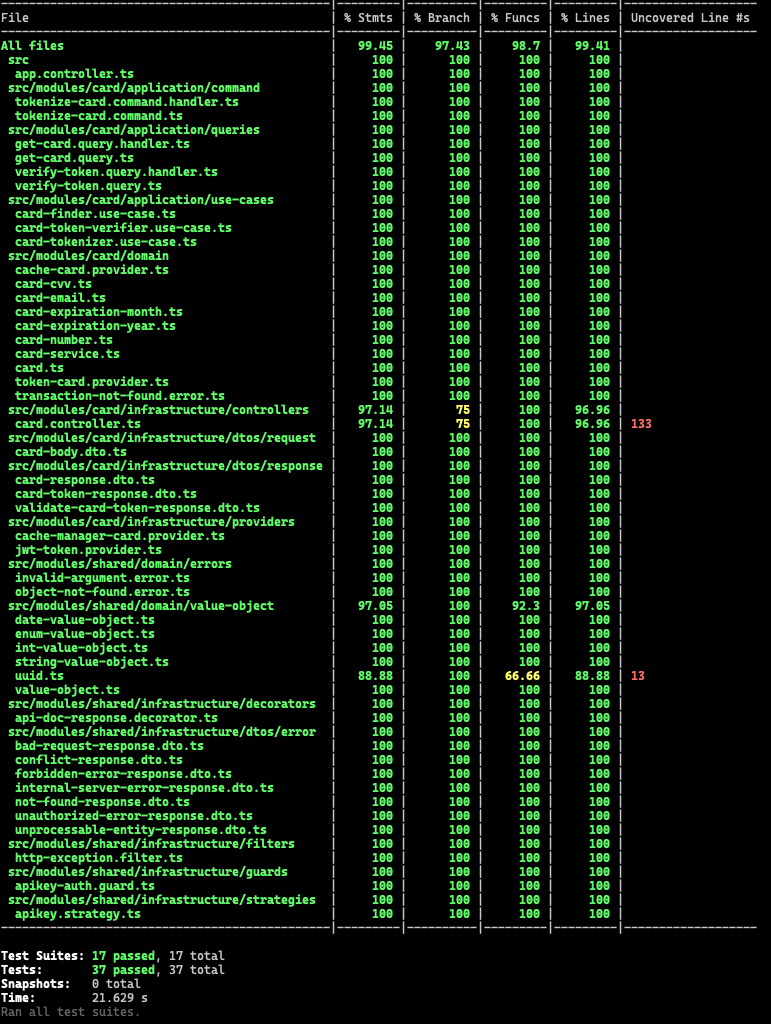
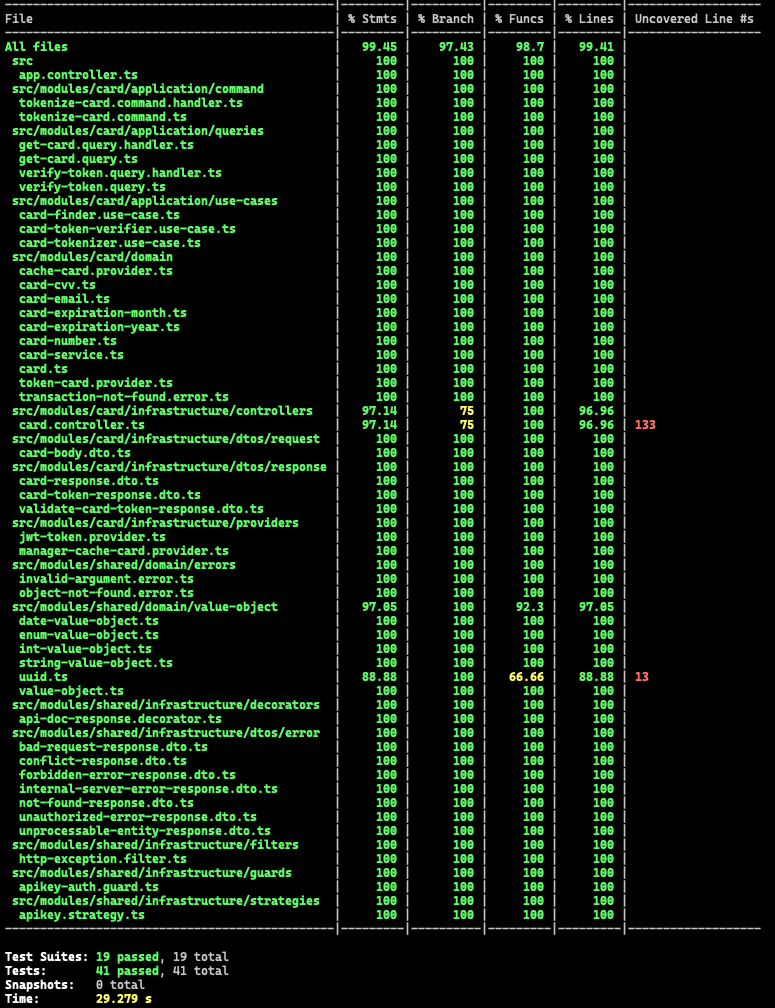
feat: add integration test and update readme

Changed region(s): [[0.0, 0.0, 0.9961, 1.0]]

diff --git a/tests/integration/card/manager-cache-card.provider.spec.ts b/tests/integration/card/manager-cache-card.provider.spec.ts
@@ -1,0 +1,48 @@
+import { CACHE_MANAGER } from '@nestjs/cache-manager';
+import { Test, TestingModule } from '@nestjs/testing';
+import { Cache } from 'cache-manager';
+import { ManagerCacheCardProvider as CacheCardProvider } from 'src/modules/card/infrastructure/providers/manager-cache-card.provider';
+import { CardMother } from 'tests/unit/card/domain/mothers/card.mother';
+import { StringMother } from 'tests/unit/shared/domain/value-object/mothers';
+
+import { CacheTestingModule } from '../base';
+
+describe('CacheManagerProvider test', () => {
+  let testingModule: TestingModule;
+  let cache: Cache;
+  let cacheCardProvider: CacheCardProvider;
+
+  beforeAll(async () => {
+    testingModule = await Test.createTestingModule({
+      imports: [...CacheTestingModule()],
+      providers: [CacheCardProvider],
+    }).compile();
+    cache = testingModule.get<Cache>(CACHE_MANAGER);
+    cacheCardProvider = testingModule.get(CacheCardProvider);
+  });
+
+  beforeEach(async () => {
+    await cache.reset();
+  });
+
+  afterAll(async () => {
+    await testingModule.close();
+  });
+
+  it('should return null because it does not exist', async () => {
+    const card = await cacheCardProvider.get(StringMother.random());
+    expect(card).toBeNull();
+  });
+
+  it('should return existing data', async () => {
+    const card = CardMother.random();
+    const token = StringMother.random();
+
+    let storedCard = await cacheCardProvider.get(token);
+    expect(storedCard).toBeNull();
+
+    await cacheCardProvider.set(token, card);
+    storedCard = await cacheCardProvider.get(token);
+    expect(storedCard).toEqual(card);
+  });
+});

diff --git a/tests/integration/card/jwt-token.provider.spec.ts b/tests/integration/card/jwt-token.provider.spec.ts
@@ -1,0 +1,34 @@
+import { Test, TestingModule } from '@nestjs/testing';
+import { JwtTokenProvider as TokenProvider } from 'src/modules/card/infrastructure/providers/jwt-token.provider';
+import { CardMother } from 'tests/unit/card/domain/mothers/card.mother';
+import { StringMother } from 'tests/unit/shared/domain/value-object/mothers';
+
+describe('JwtTokenProvider test', () => {
+  let testingModule: TestingModule;
+  let tokenProvider: TokenProvider;
+
+  beforeAll(async () => {
+    testingModule = await Test.createTestingModule({
+      providers: [TokenProvider],
+    }).compile();
+    tokenProvider = testingModule.get(TokenProvider);
+  });
+
+  afterAll(async () => {
+    await testingModule.close();
+  });
+
+  it('should not validate a invalid token', async () => {
+    const token = StringMother.random();
+    const response = await tokenProvider.validate(token);
+    expect(response).toBeFalsy();
+  });
+
+  it('should validate a valid token', async () => {
+    const card = CardMother.random();
+
+    const token = await tokenProvider.generate(card);
+    const response = await tokenProvider.validate(token);
+    expect(response).toBeTruthy();
+  });
+});

diff --git a/src/modules/shared/domain/value-object/primitives.ts b/src/modules/shared/domain/value-object/primitives.ts
@@ -12,14 +12,14 @@ type PrimitiveTypes = string | number | boolean | Date | undefined | null;
 type ValueObjectValue<T> = T extends PrimitiveTypes
   ? T
   : T extends { value: infer U }
-  ? U
-  : T extends Array<{ value: infer U }>
-  ? U[]
-  : T extends Array<infer U>
-  ? Array<ValueObjectValue<U>>
-  : T extends { [K in keyof Properties<T>] }
-  ? { [K in keyof Properties<T>]: ValueObjectValue<Properties<T>[K]> }
-  : never;
+    ? U
+    : T extends Array<{ value: infer U }>
+      ? U[]
+      : T extends Array<infer U>
+        ? Array<ValueObjectValue<U>>
+        : T extends { [K in keyof Properties<T>] }
+          ? { [K in keyof Properties<T>]: ValueObjectValue<Properties<T>[K]> }
+          : never;
 
 export type Primitives<T> = {
   [key in keyof Properties<T>]: ValueObjectValue<T[key]>;

diff --git a/src/modules/card/infrastructure/providers/index.ts b/src/modules/card/infrastructure/providers/index.ts
@@ -1,6 +1,6 @@
 import { CACHE_CARD_PROVIDER_ALIAS } from '../../domain/cache-card.provider';
 import { TOKEN_CARD_PROVIDER_ALIAS } from '../../domain/token-card.provider';
-import { ManagerCacheCardProvider } from './cache-manager-card.provider';
+import { ManagerCacheCardProvider } from './manager-cache-card.provider';
 import { JwtTokenProvider } from './jwt-token.provider';
 
 export const Providers = [

diff --git a/src/modules/shared/domain/value-object/enum-value-object.ts b/src/modules/shared/domain/value-object/enum-value-object.ts
@@ -3,7 +3,10 @@ import { InvalidArgumentError } from '../errors/invalid-argument.error';
 export abstract class EnumValueObject<T> {
   readonly value: T;
 
-  constructor(value: T, private readonly validValues: T[]) {
+  constructor(
+    value: T,
+    private readonly validValues: T[],
+  ) {
     this.value = value;
     this.checkValueIsValid(value);
   }

diff --git a/tests/integration/base.ts b/tests/integration/base.ts
@@ -1,0 +1,7 @@
+import { CacheModule } from '@nestjs/cache-manager';
+
+export const CacheTestingModule = () => [
+  CacheModule.register({
+    ttl: 0,
+  }),
+];

diff --git a/README.md b/README.md
@@ -63,7 +63,7 @@ $ node dist/main
 
 ## Tests
 <p>
-  This microservice has unit tests and e2e tests
+  This microservice has unit tests, integration tests and e2e tests
 </p>
 
 ```bash
@@ -72,6 +72,9 @@ $ npm run test
 
 # unit tests
 $ npm run test:unit
+
+# integration tests
+$ npm run test:integration
 
 # e2e tests
 $ npm run test:e2e
